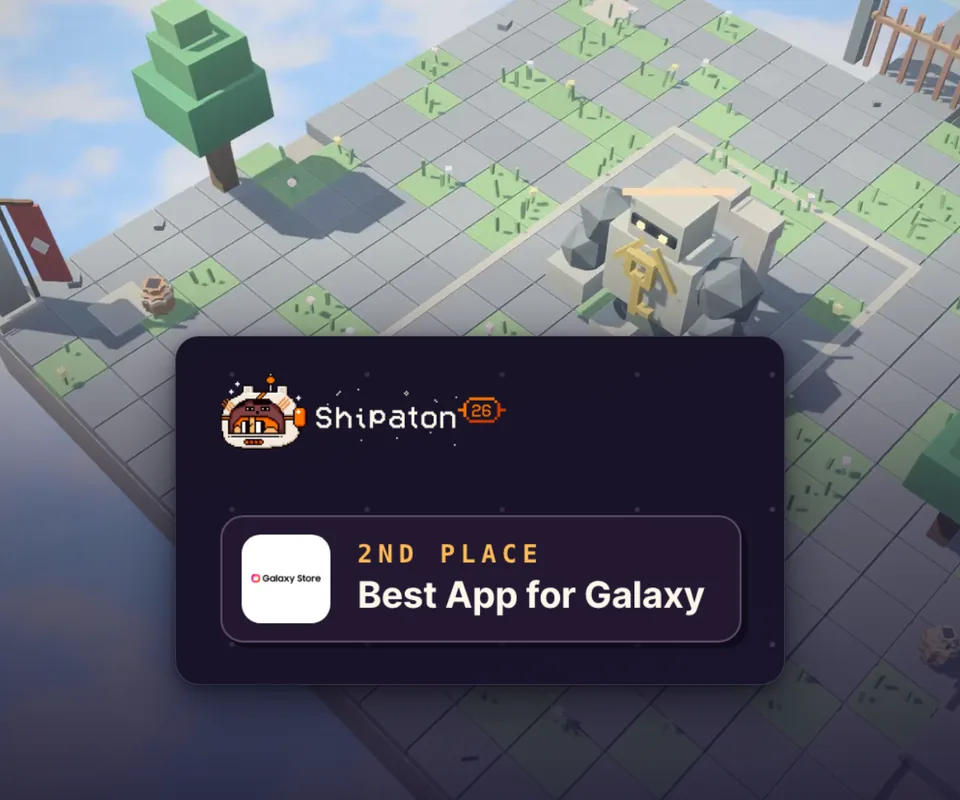
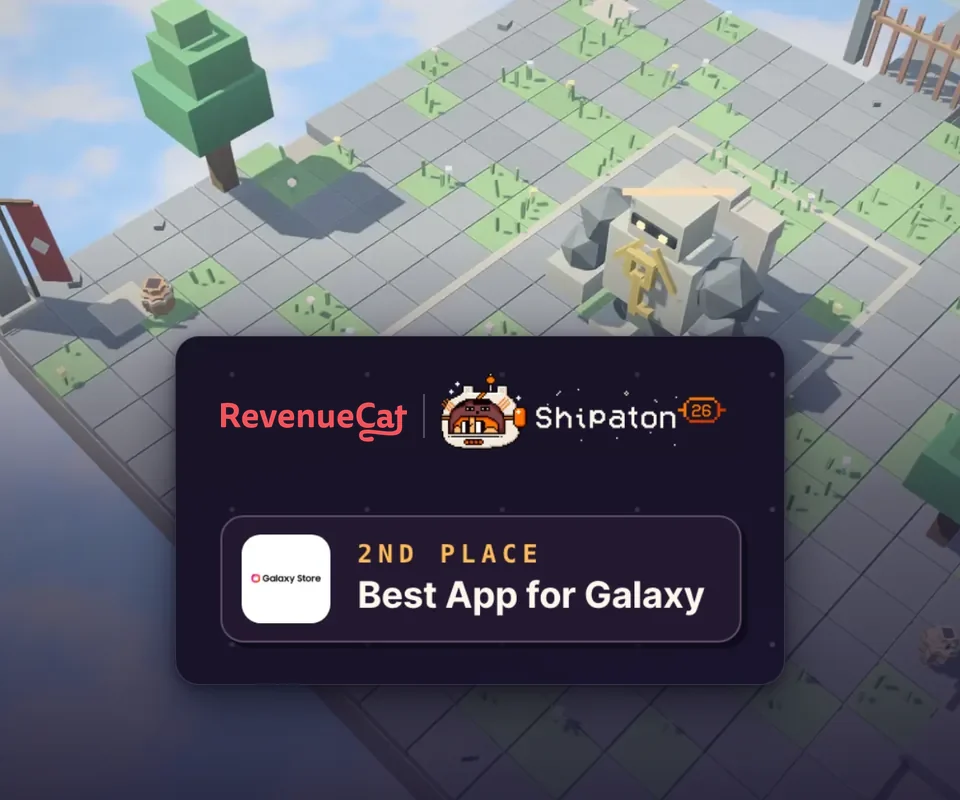
Name RevenueCat Shipaton 2026 in full in the Rainroam post
The post, its description, the stat, the timeline, the results link
and the alt texts now say "RevenueCat Shipaton 2026" instead of a bare
"Shipaton", and mention that the hackathon had more than 28,000
participants (28,576 on Devpost).

The blog cover puts the RevenueCat wordmark ahead of the Shipaton logo,
above the 2nd-place badge.

Claude-Session: https://claude.ai/code/session_01NzZXAtWWjywzMf6aL5EJBG

Changed region(s): [[0.2188, 0.4688, 0.75, 0.5625]]

diff --git a/src/routes/blog/rainroam/+page.svelte b/src/routes/blog/rainroam/+page.svelte
@@ -103,7 +103,7 @@
   };
 
   const highlights = [
-    { value: '2nd', label: 'Best App for Galaxy, Shipaton' },
+    { value: '2nd', label: 'Best App for Galaxy, RevenueCat Shipaton 2026' },
     { value: '13 days', label: 'first build to Galaxy Store' },
     { value: '2', label: 'renderers, one game state' },
     { value: '13', label: 'dungeons and caves' },
@@ -147,7 +147,7 @@
       text: 'A cat knight in a voxel dungeon, deployed to Cloudflare Pages on day one. Everything after that shipped continuously from the same TypeScript codebase.',
     },
     {
-      title: 'September 30: Galaxy Store and Shipaton',
+      title: 'September 30: Galaxy Store and RevenueCat Shipaton 2026',
       text: 'Galaxy Store approved version 1.0.1, and the game was entered in RevenueCat Shipaton 2026 for the Best Game, RevenueCat Design and Best App for Galaxy awards.',
     },
     {
@@ -156,7 +156,7 @@
     },
     {
       title: 'October 20: 2nd place for Best App for Galaxy',
-      text: 'RevenueCat announced the Shipaton 2026 winners, 58 apps picked from 3,985 projects, and Rainroam took 2nd place in Best App for Galaxy.',
+      text: 'The RevenueCat Shipaton 2026 winners were announced: 58 apps picked from 3,985 projects in a hackathon with more than 28,000 participants, and Rainroam took 2nd place in Best App for Galaxy.',
     },
   ];
 
@@ -175,7 +175,7 @@
   <title>Rainroam: one action RPG, two renderers | Eugene Draitsev</title>
   <meta
     name="description"
-    content="How Rainroam was built: a one-thumb action RPG for phones with a WebGPU/TypeGPU 3D renderer and a Phaser pixel-art renderer drawing the same game state, shipped to the web, Galaxy Store and the App Store, and 2nd for Best App for Galaxy at RevenueCat Shipaton 2026."
+    content="How Rainroam was built: a one-thumb action RPG for phones with a WebGPU/TypeGPU 3D renderer and a Phaser pixel-art renderer drawing the same game state, shipped to the web, Galaxy Store and the App Store, and 2nd for Best App for Galaxy at RevenueCat Shipaton 2026, a hackathon with more than 28,000 participants."
   />
   <link rel="canonical" href={canonicalUrl} />
   <meta property="og:title" content={post.title} />
@@ -217,7 +217,8 @@
           drawn in soft-lit 3D or in pixel art, and you can switch between them at any moment, even
           in the middle of a fight. It went from a plan in August to the web, Galaxy Store and the
           Mac App Store in about six weeks, reached iPhone and iPad on October 9, and took 2nd place
-          for Best App for Galaxy at RevenueCat Shipaton 2026.
+          for Best App for Galaxy at RevenueCat Shipaton 2026, a hackathon with more than 28,000
+          participants.
         </p>
         <div class="mt-5 flex flex-wrap gap-4 text-sm">
           <a class="text-constant underline" href={playUrl} target="_blank" rel="noreferrer"
@@ -233,7 +234,7 @@
             >Mac App Store</a
           >
           <a class="text-constant underline" href={winnersUrl} target="_blank" rel="noreferrer"
-            >Shipaton results</a
+            >RevenueCat Shipaton 2026 results</a
           >
           <a class="text-constant underline" href={devpostUrl} target="_blank" rel="noreferrer"
             >Devpost submission</a
@@ -265,14 +266,15 @@
       <section class="mb-12">
         <h2 class="section-heading">2nd place for Best App for Galaxy</h2>
         <p class="mb-6">
-          On October 20 RevenueCat announced the Shipaton 2026 winners: 58 apps picked from 3,985
-          projects. Rainroam took 2nd place in Best App for Galaxy. The write-up points to the
-          switch between 3D and pixel art in the middle of a fight, and to the work on Galaxy
-          foldables: folding, unfolding and multi-window play.
+          On October 20 RevenueCat announced the winners of RevenueCat Shipaton 2026: 58 apps picked
+          from 3,985 projects, in a hackathon with more than 28,000 participants. Rainroam took 2nd
+          place in Best App for Galaxy. The write-up points to the switch between 3D and pixel art
+          in the middle of a fight, and to the work on Galaxy foldables: folding, unfolding and
+          multi-window play.
         </p>
         <ZoomableImage
           src="/blog/rainroam/shipaton-2nd-place.webp"
-          alt="Shipaton 2026 winner card: Rainroam, 2nd place, Best App for Galaxy"
+          alt="RevenueCat Shipaton 2026 winner card: Rainroam, 2nd place, Best App for Galaxy"
           figureClass="mb-3 overflow-hidden rounded border border-base-300"
           imageClass="w-full"
           caption="Rainroam's card from the winners announcement."

diff --git a/src/lib/blog.ts b/src/lib/blog.ts
@@ -4,16 +4,16 @@ export const BLOG_POSTS = [
     title: 'Rainroam: one action RPG, drawn by two renderers',
     label: 'RevenueCat Shipaton 2026 · 2nd place',
     datePublished: '2026-10-08',
-    dateModified: '2026-10-21',
-    // The White Stair with the Shipaton badge from the winner card, kept inside the
-    // area every crop of the list cell shows.
+    dateModified: '2026-10-28',
+    // The White Stair with the RevenueCat and Shipaton logos and the 2nd-place badge
+    // from the winner card, kept inside the area every crop of the list cell shows.
     image: '/blog/rainroam/shipaton-cover.webp',
     imageAlt:
-      'The White Stair in Rainroam, under a Shipaton 2026 badge: 2nd place, Best App for Galaxy',
+      'The White Stair in Rainroam, under a RevenueCat Shipaton 2026 badge: 2nd place, Best App for Galaxy',
     imageMode: 'cover',
     socialImage: '/og/rainroam.jpg',
     description:
-      'A souls-lite adventure for phones, played with one thumb, that switches between soft 3D and pixel art mid-fight. 2nd place for Best App for Galaxy at Shipaton 2026, out on the web, Galaxy Store and the App Store, and four of its scenes run live in the post.',
+      'A souls-lite adventure for phones, played with one thumb, that switches between soft 3D and pixel art mid-fight. 2nd place for Best App for Galaxy at RevenueCat Shipaton 2026, a hackathon with more than 28,000 participants. Out on the web, Galaxy Store and the App Store, and four of its scenes run live in the post.',
     tags: ['TypeGPU', 'WebGPU', 'Phaser', 'Capacitor', 'RevenueCat'],
   },
   {
